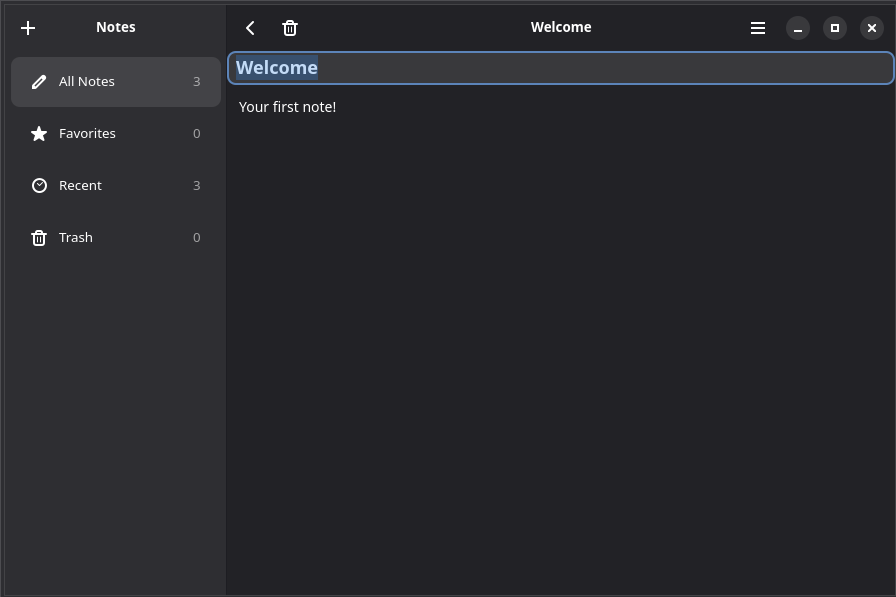
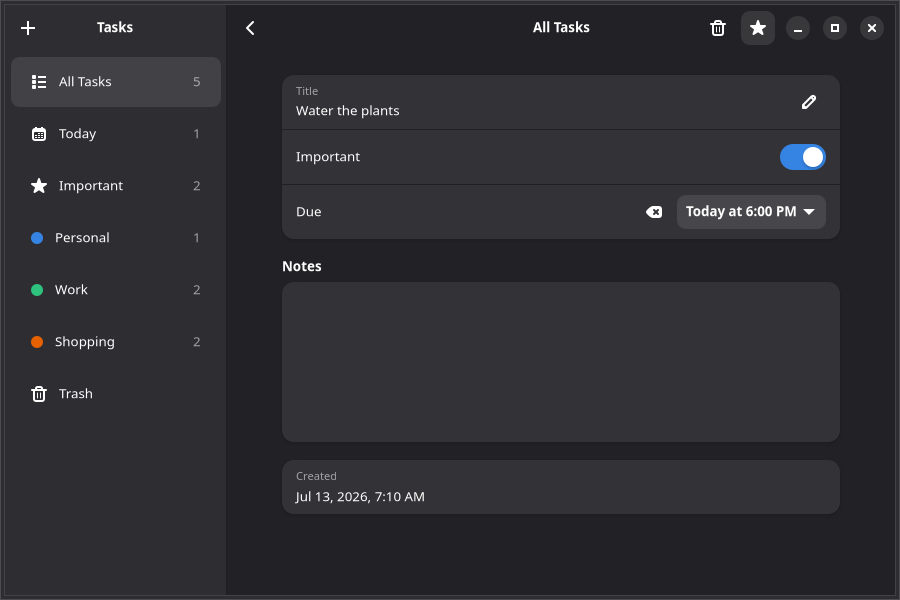
Add MCP screenshot path option; refresh tutorial screenshots

diff --git a/packages/mcp/src/server.ts b/packages/mcp/src/server.ts
@@ -66,6 +66,9 @@ const screenshotShape = {
     windowId: screenshotParams.shape.windowId.describe(
         "Window ID to capture. If not specified, captures the first window.",
     ),
+    path: screenshotParams.shape.path.describe(
+        "Absolute path to write the PNG to on the app's machine. If set, the screenshot is saved there in addition to being returned.",
+    ),
 };
 
 const textContent = (text: string): CallToolResult => ({ content: [{ type: "text", text }] });
@@ -165,14 +168,22 @@ const screenshotTool = (appRouter: AppRouter): Tool =>
         title: "Take screenshot",
         kind: "readOnly",
         description:
-            "Capture a screenshot of a window. Returns base64-encoded PNG image data. You can't target widgets from a screenshot; use `gtkx_get_widget_tree` to find widget IDs for interaction.",
+            "Capture a screenshot of a window. Returns base64-encoded PNG image data, and optionally writes the PNG to `path` on the app's machine. You can't target widgets from a screenshot; use `gtkx_get_widget_tree` to find widget IDs for interaction.",
         inputSchema: screenshotShape,
         handler: async ({ applicationId, ...params }) => {
-            const result = await appRouter.sendToApp<{ data: string; mimeType: string }>(
+            const result = await appRouter.sendToApp<{ data: string; mimeType: string; savedPath?: string }>(
                 applicationId,
                 "widget.screenshot",
                 params,
             );
+            if (result.savedPath) {
+                return {
+                    content: [
+                        { type: "text", text: `Screenshot saved to ${result.savedPath}` },
+                        { type: "image", data: result.data, mimeType: result.mimeType },
+                    ],
+                };
+            }
             return imageContent(result.data, result.mimeType);
         },
     });

diff --git a/packages/cli/src/mcp/handlers.ts b/packages/cli/src/mcp/handlers.ts
@@ -1,3 +1,5 @@
+import { mkdirSync, writeFileSync } from "node:fs";
+import { dirname } from "node:path";
 import * as Gtk from "@gtkx/gi/gtk";
 import {
     invalidRequestError,
@@ -93,6 +95,11 @@ const handleScreenshot = async (
     const testing = await loadTestingModule();
     const target = params.windowId ? requireWidget(registry, params.windowId) : defaultScreenshotTarget(registry);
     const result = await testing.screenshot(target);
+    if (params.path) {
+        mkdirSync(dirname(params.path), { recursive: true });
+        writeFileSync(params.path, Buffer.from(result.data, "base64"));
+        return { data: result.data, mimeType: result.mimeType, savedPath: params.path };
+    }
     return { data: result.data, mimeType: result.mimeType };
 };
 

diff --git a/packages/mcp/src/protocol/schemas.ts b/packages/mcp/src/protocol/schemas.ts
@@ -102,8 +102,12 @@ export const fireEventParams: z.ZodObject<
     { widgetId: z.ZodString; signal: z.ZodString; args: z.ZodOptional<z.ZodArray<z.ZodUnknown>> },
     z.core.$strip
 > = z.object({ widgetId: z.string(), signal: z.string(), args: z.array(z.unknown()).optional() });
-export const screenshotParams: z.ZodObject<{ windowId: z.ZodOptional<z.ZodString> }, z.core.$strip> = z.object({
+export const screenshotParams: z.ZodObject<
+    { windowId: z.ZodOptional<z.ZodString>; path: z.ZodOptional<z.ZodString> },
+    z.core.$strip
+> = z.object({
     windowId: z.string().optional(),
+    path: z.string().optional(),
 });
 
 export const ServerRequestParamsSchemas: {

diff --git a/website/guide/index.md b/website/guide/index.md
@@ -2,6 +2,8 @@
 
 This guide walks through a complete, real GNOME application built with GTKX: **Tasks**, a task manager (app id `com.gtkx.tutorial`). It looks and behaves like a native GNOME app because it *is* one. Every list, row, header bar, and dialog you see is a real GTK4 or libadwaita widget, driven from React components you already know how to write.
 
+<img src="/tasks-screenshot.png" alt="The Tasks app: an adaptive libadwaita window with a sidebar of smart views and colored user lists on the left, and a boxed task list on the right." />
+
 The app is already written. Rather than building it file by file, this guide tours the finished source and explains how each piece works, with snippets copied straight from `examples/tutorial/src`. You will recognize the shape immediately: `useState`, `useEffect`, `useRef`, props, keyed lists, controlled inputs. What is new is the *target*: instead of DOM nodes, your JSX renders `AdwApplicationWindow`, `AdwNavigationSplitView`, `GtkListBox`, and friends.
 
 ## What we are building
